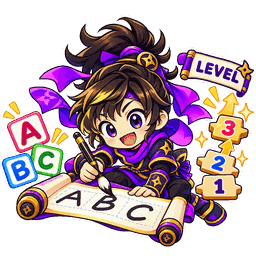
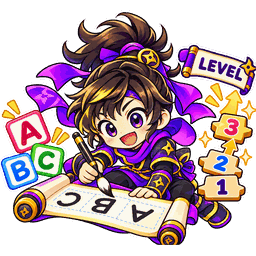
fix(さんすう・さくらんぼざん・ローマ字): 分け方の左右反転を出さない・まちがえたら「つぎへ」で進む・かく の絵を差しかえ
- さくらんぼざん：正解を左右入れかえただけの分け方（7と1 に対する 1と7）を選択肢に出さない（どちらも分け方としては合っているため）
- さんすう：まちがえたときは 1.2秒で進まず「つぎへ」を押すまで待つ（こたえを読みきれなかった）。
  ボタンの色は 9/28 の決定どおり変えない（正誤は下の文で伝える）
- ローマ字：レベル しゅぎょう の かく の絵を、ABC が書いている子から見て正しい向きのものに差しかえ

diff --git a/js/sansu-app.js b/js/sansu-app.js
@@ -135,7 +135,9 @@
     const pair = (x) => (left ? x + ' と ' + (split - x) : (split - x) + ' と ' + x);
     const correct = pair(q.need);
     const others = [];
-    for (let x = 1; x < split; x++) if (x !== q.need) others.push(x);
+    // 正解を 左右 入れかえただけの 分け方（8 を 7と1 に対して 1と7）は 出さない。
+    // どちらも 8 の 分け方としては 合っているので、まちがい扱いに すると 1年生が「なんで？」となる（2026-10-07）
+    for (let x = 1; x < split; x++) if (x !== q.need && x !== split - q.need) others.push(x);
     const near = shuffle(others.filter((x) => Math.abs(x - q.need) <= 2));
     const far = shuffle(others.filter((x) => Math.abs(x - q.need) > 2));
     const opts = [correct].concat(near.concat(far).slice(0, 3).map(pair));
@@ -1152,7 +1154,15 @@
     }
     saveProgress();
 
-    if (!cherry) setTimeout(() => { if (session) nextQuestion(); }, 1200);
+    // まちがえたときは「こたえは 33」を 読みきれるよう、「つぎへ」を おすまで 待つ（2026-10-07。前は 1.2秒で 次へ進んでいた）
+    if (!cherry && ok) setTimeout(() => { if (session) nextQuestion(); }, 1200);
+    if (!cherry && !ok) {
+      const nx = el('button', 'sa-btn sa-btn-primary sa-wrong-next', 'つぎへ →');
+      nx.type = 'button';
+      nx.addEventListener('click', () => { if (session) nextQuestion(); });
+      feedback.appendChild(nx);
+      nx.focus({ preventScroll: true });
+    }
   }
 
   // 押したボタンに ○／× の色、まちがえたときは正しいボタンにも ○ の色を付ける

diff --git a/tools/sakuranbo/index.html b/tools/sakuranbo/index.html
@@ -39,7 +39,7 @@
 <link rel="preconnect" href="https://fonts.gstatic.com" crossorigin>
 <link href="https://fonts.googleapis.com/css2?family=M+PLUS+Rounded+1c:wght@400;700;800&display=swap" rel="stylesheet">
 <link rel="stylesheet" href="/css/common.css">
-<link rel="stylesheet" href="/css/sansu-app.css?v=20261003h">
+<link rel="stylesheet" href="/css/sansu-app.css?v=20261007u">
 <link rel="stylesheet" href="/css/ninja-kids.css?v=20261007a">
 </head>
 <body class="ninja-kids ninja-space" data-sansu-mode="sakuranbo">
@@ -63,7 +63,7 @@
 </div>
 <script src="/js/ninja-links.js?v=20261001ga"></script>
 <script src="/js/nk-modal.js?v=20260927b"></script>
-<script src="/js/sansu-app.js?v=20261004a"></script>
+<script src="/js/sansu-app.js?v=20261007r"></script>
 
 <!-- 全アプリ共通のテキストロゴ版フッター（2026-07-15統一） -->
 <footer class="site-footer-app">

diff --git a/tools/sansu-app/index.html b/tools/sansu-app/index.html
@@ -39,7 +39,7 @@
 <link rel="preconnect" href="https://fonts.gstatic.com" crossorigin>
 <link href="https://fonts.googleapis.com/css2?family=M+PLUS+Rounded+1c:wght@400;700;800&display=swap" rel="stylesheet">
 <link rel="stylesheet" href="/css/common.css">
-<link rel="stylesheet" href="/css/sansu-app.css?v=20261003h">
+<link rel="stylesheet" href="/css/sansu-app.css?v=20261007u">
 <link rel="stylesheet" href="/css/ninja-kids.css?v=20261007a">
 </head>
 <body class="ninja-kids ninja-space">
@@ -63,7 +63,7 @@
 </div>
 <script src="/js/ninja-links.js?v=20261001ga"></script>
 <script src="/js/nk-modal.js?v=20260927b"></script>
-<script src="/js/sansu-app.js?v=20261004a"></script>
+<script src="/js/sansu-app.js?v=20261007r"></script>
 
 <!-- 全アプリ共通のテキストロゴ版フッター（2026-07-15統一） -->
 <footer class="site-footer-app">

diff --git a/css/sansu-app.css b/css/sansu-app.css
@@ -1138,3 +1138,6 @@ body[data-sansu-mode="sakuranbo"] .sa-feedback { min-height: 2.7em; line-height:
   .sa-explain-steps { margin-bottom: 8px; font-size: 16px; line-height: 1.4; }
   .sa-explain-next { padding-block: 8px; }
 }
+
+/* まちがえたときの「つぎへ」（2026-10-07）。こたえの文の よこに おく */
+.sa-wrong-next { display: inline-block; margin-left: 12px; padding: 6px 18px; font-size: 16px; vertical-align: middle; }

diff --git a/tools/romaji/index.html b/tools/romaji/index.html
@@ -48,7 +48,7 @@
 <link rel="icon" type="image/svg+xml" href="/assets/icons/favicon.svg">
 <link rel="stylesheet" href="/css/common.css">
 <link rel="stylesheet" href="/css/app-reference.css">
-<link rel="stylesheet" href="/css/romaji.css?v=20261007i">
+<link rel="stylesheet" href="/css/romaji.css?v=20261007j">
 <link rel="stylesheet" href="/css/ninja-kids.css?v=20261007a">
 </head>
 <body class="ninja-kids ninja-romaji">
